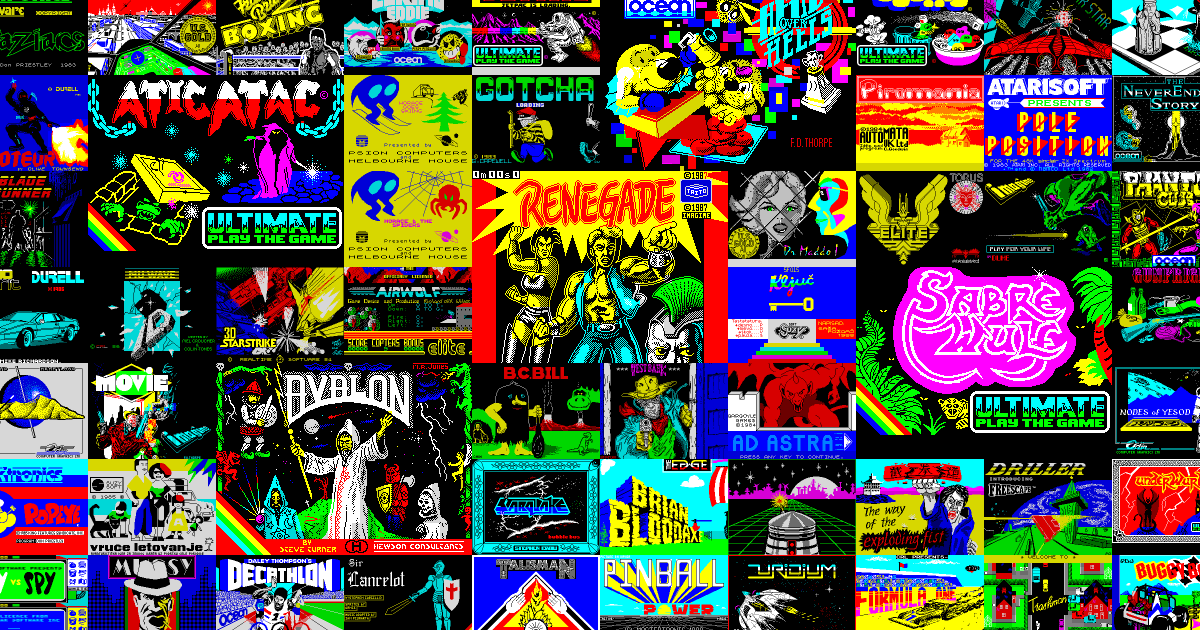
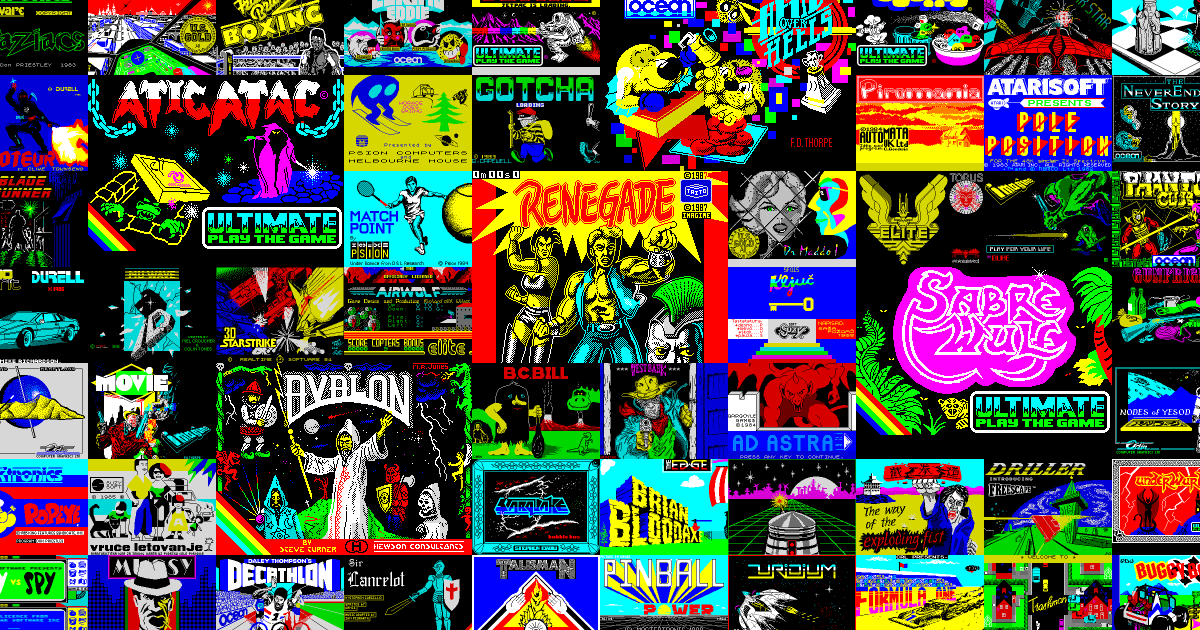
Preview: Match Point instead of a second Horace; README picture says Click to play! on hover

Changed region(s): [[0.2775, 0.2714, 0.4008, 0.4222]]

diff --git a/README.md b/README.md
@@ -2,4 +2,4 @@
 
 Play it: <https://mihailod.github.io/zxspectrum/>
 
-[![ZX Spectrum loading screens](preview.png)](https://mihailod.github.io/zxspectrum/)
+[![ZX Spectrum loading screens](preview.png "Click to play!")](https://mihailod.github.io/zxspectrum/ "Click to play!")
